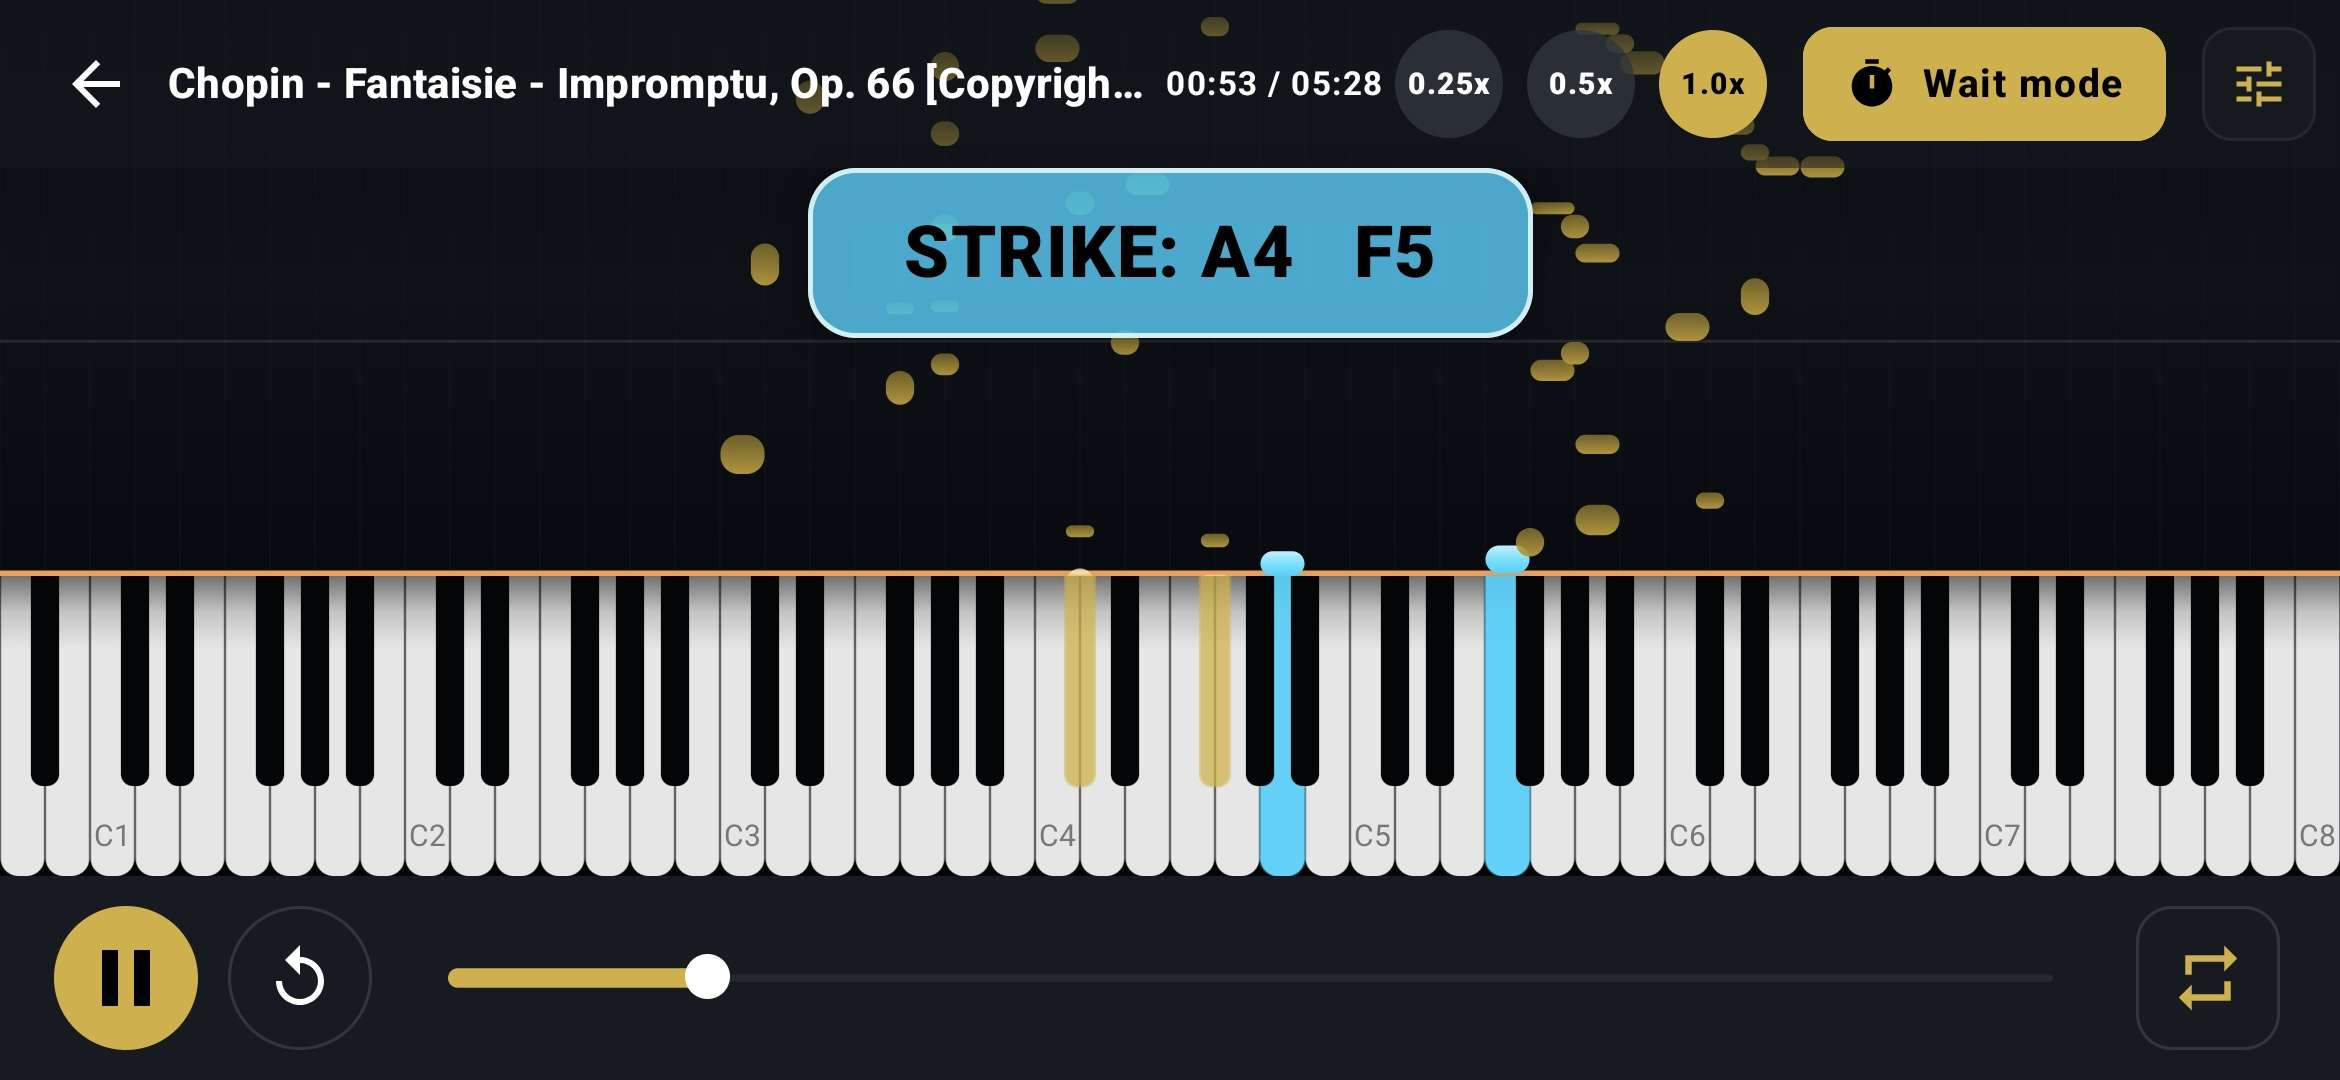
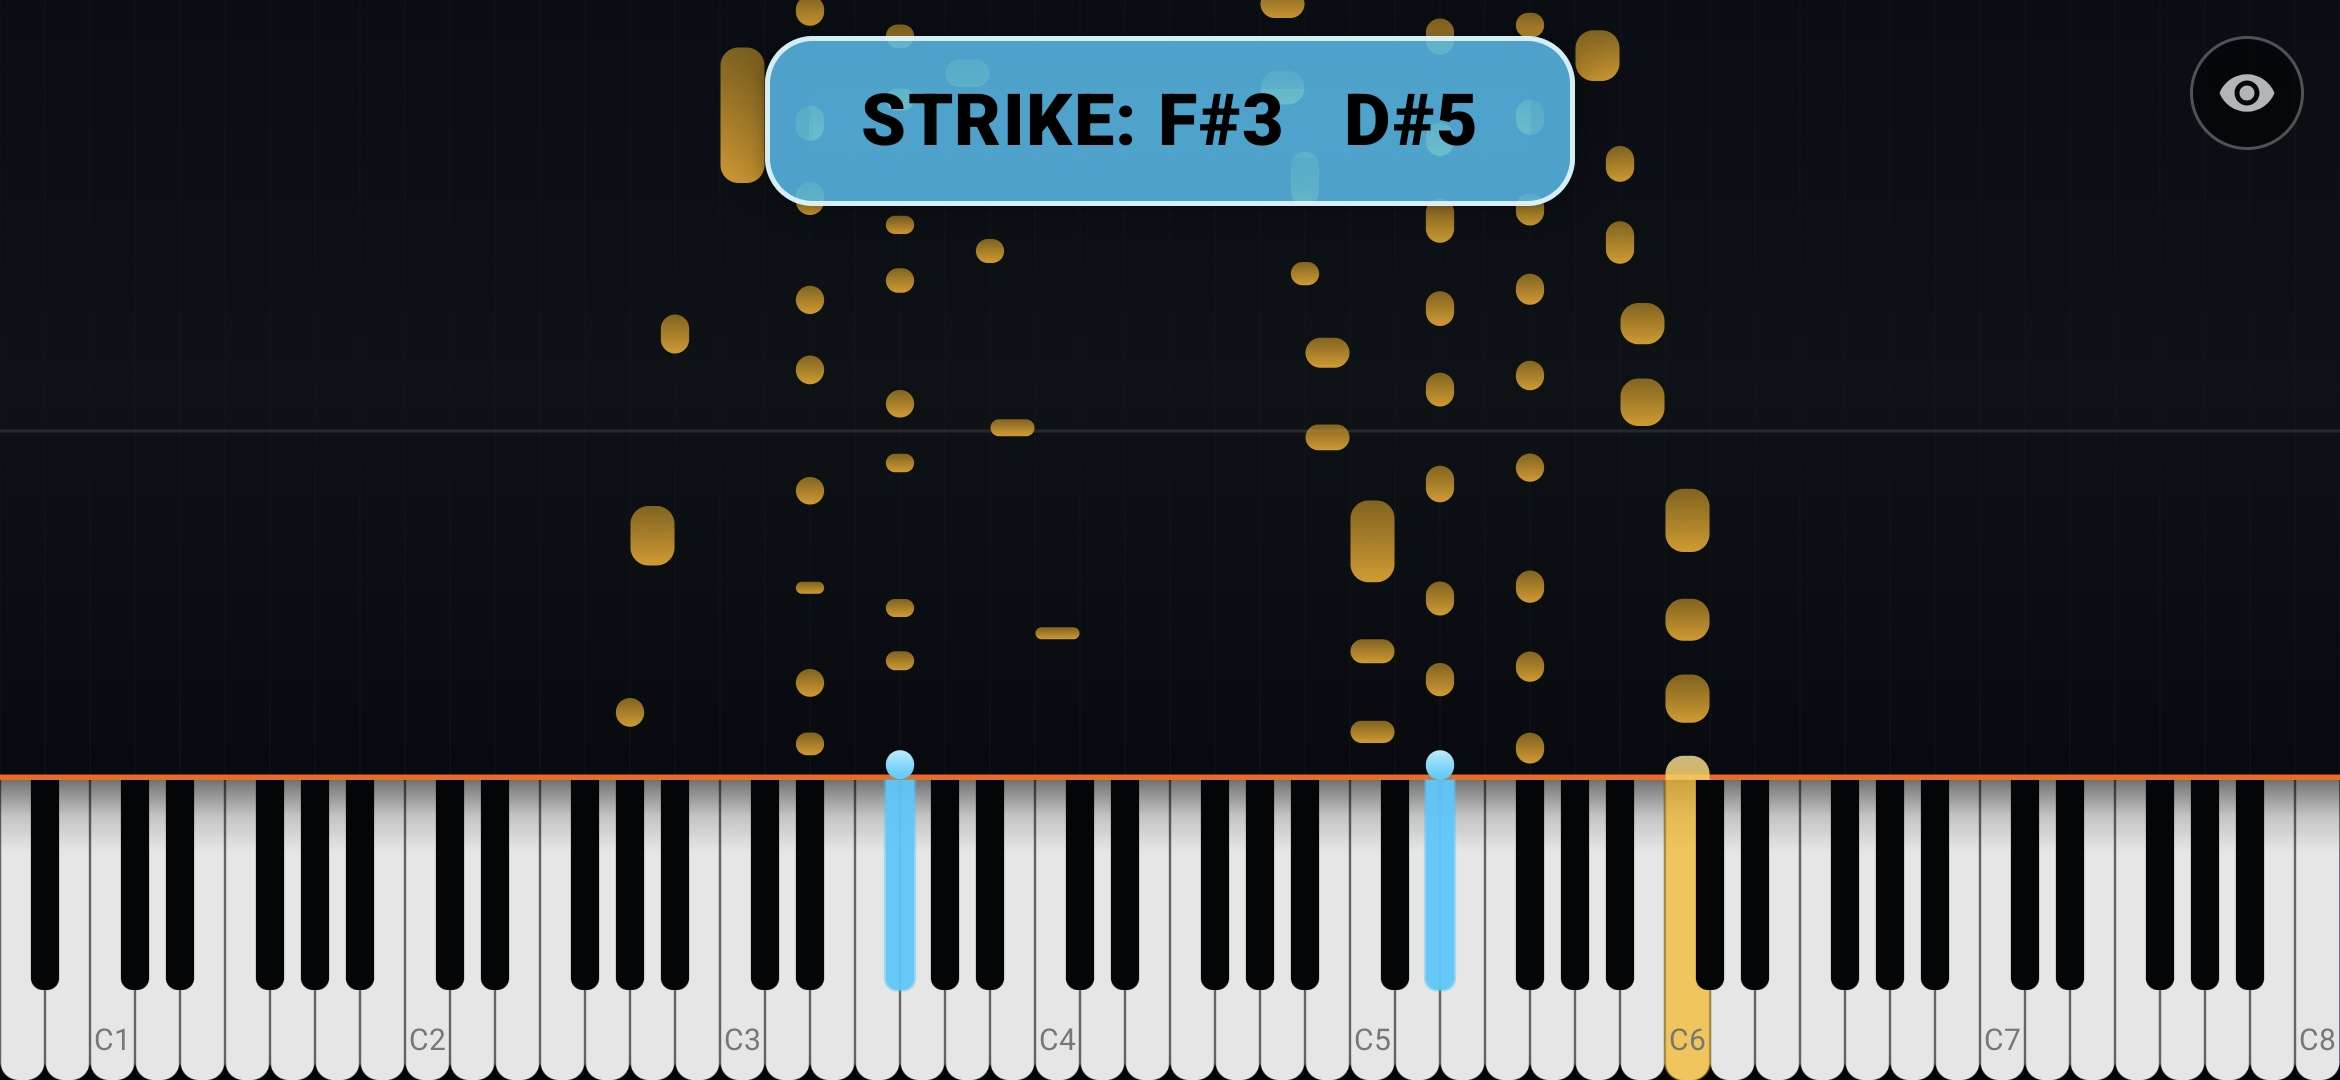
Adjust WaitModeOverlay top padding when UI is hidden
- Pass `isUiHidden` to `WaitModeOverlay` to reduce top padding in landscape mode when the UI is hidden.
- Update the piano roll screenshot in `README.md`.

diff --git a/app/src/main/java/com/example/pianoweave/ui/screens/pianoroll/PianoRollToolbar.kt b/app/src/main/java/com/example/pianoweave/ui/screens/pianoroll/PianoRollToolbar.kt
@@ -230,13 +230,17 @@ internal fun ModernToolbar(
 }
 
 @Composable
-internal fun WaitModeOverlay(notes: Set<Int>) {
+internal fun WaitModeOverlay(notes: Set<Int>, isUiHidden: Boolean = false) {
     val appTheme = LocalAppTheme.current
     val ColorWaitTarget = appTheme.waitTargetColor
+    val configuration = LocalConfiguration.current
+    val isPortrait = configuration.orientation == Configuration.ORIENTATION_PORTRAIT
+    val topPadding = if (isPortrait || !isUiHidden) 56.dp else 12.dp
+
     Box(
         modifier = Modifier
             .fillMaxWidth()
-            .padding(top = 56.dp)
+            .padding(top = topPadding)
             .pointerInput(Unit) { detectTapGestures { } },
         contentAlignment = Alignment.TopCenter
     ) {

diff --git a/app/src/main/java/com/example/pianoweave/ui/screens/PianoRollScreen.kt b/app/src/main/java/com/example/pianoweave/ui/screens/PianoRollScreen.kt
@@ -381,7 +381,7 @@ private fun ModernPianoPlayerContent(
             }
 
             if (isWaitingAtBaseline && waitTargetPitches.isNotEmpty() && viewModel.isStrikeOverlayEnabled) {
-                WaitModeOverlay(notes = waitTargetPitches)
+                WaitModeOverlay(notes = waitTargetPitches, isUiHidden = isUiHidden)
             }
 
             SeekIndicatorOverlay(seekInfo)

diff --git a/README.md b/README.md
@@ -21,9 +21,9 @@
 
 ## 📱 Screenshots
 
-| AI Transcription | Piano Roll & Wait Mode |
-| :---: | :---: |
-| <img src="docs/screenshots/transcription_landscape.jpg" width="100%" alt="AI Transcription Screen" /> | <img src="docs/screenshots/piano_roll_landscape.jpg" width="100%" alt="Interactive Piano Roll Screen" /> |
+| AI Transcription |                                          Piano Roll & Wait Mode                                           |
+| :---: |:---------------------------------------------------------------------------------------------------------:|
+| <img src="docs/screenshots/transcription_landscape.jpg" width="100%" alt="AI Transcription Screen" /> | <img src="docs/screenshots/piano_roll_landscape2.jpg" width="100%" alt="Interactive Piano Roll Screen" /> |
 
 ## ✨ Features
 
